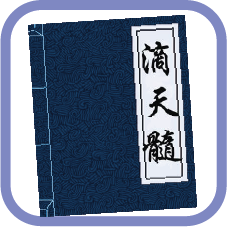
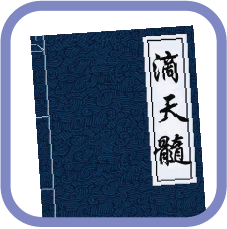
Update GitHub with latest version for Vercel deployment

diff --git a/index.html b/index.html
@@ -96,7 +96,7 @@
         <section id="view-records" class="app-view">
             <header class="view-header">
                 <div class="header-left">
-                    <h2>命盘资料</h2>
+                    <h2>八字命盘资料</h2>
                 </div>
                 <div class="header-right" style="display:flex; gap:10px;">
                     <button id="import-btn" class="icon-text-btn">Import 命盘数据</button>